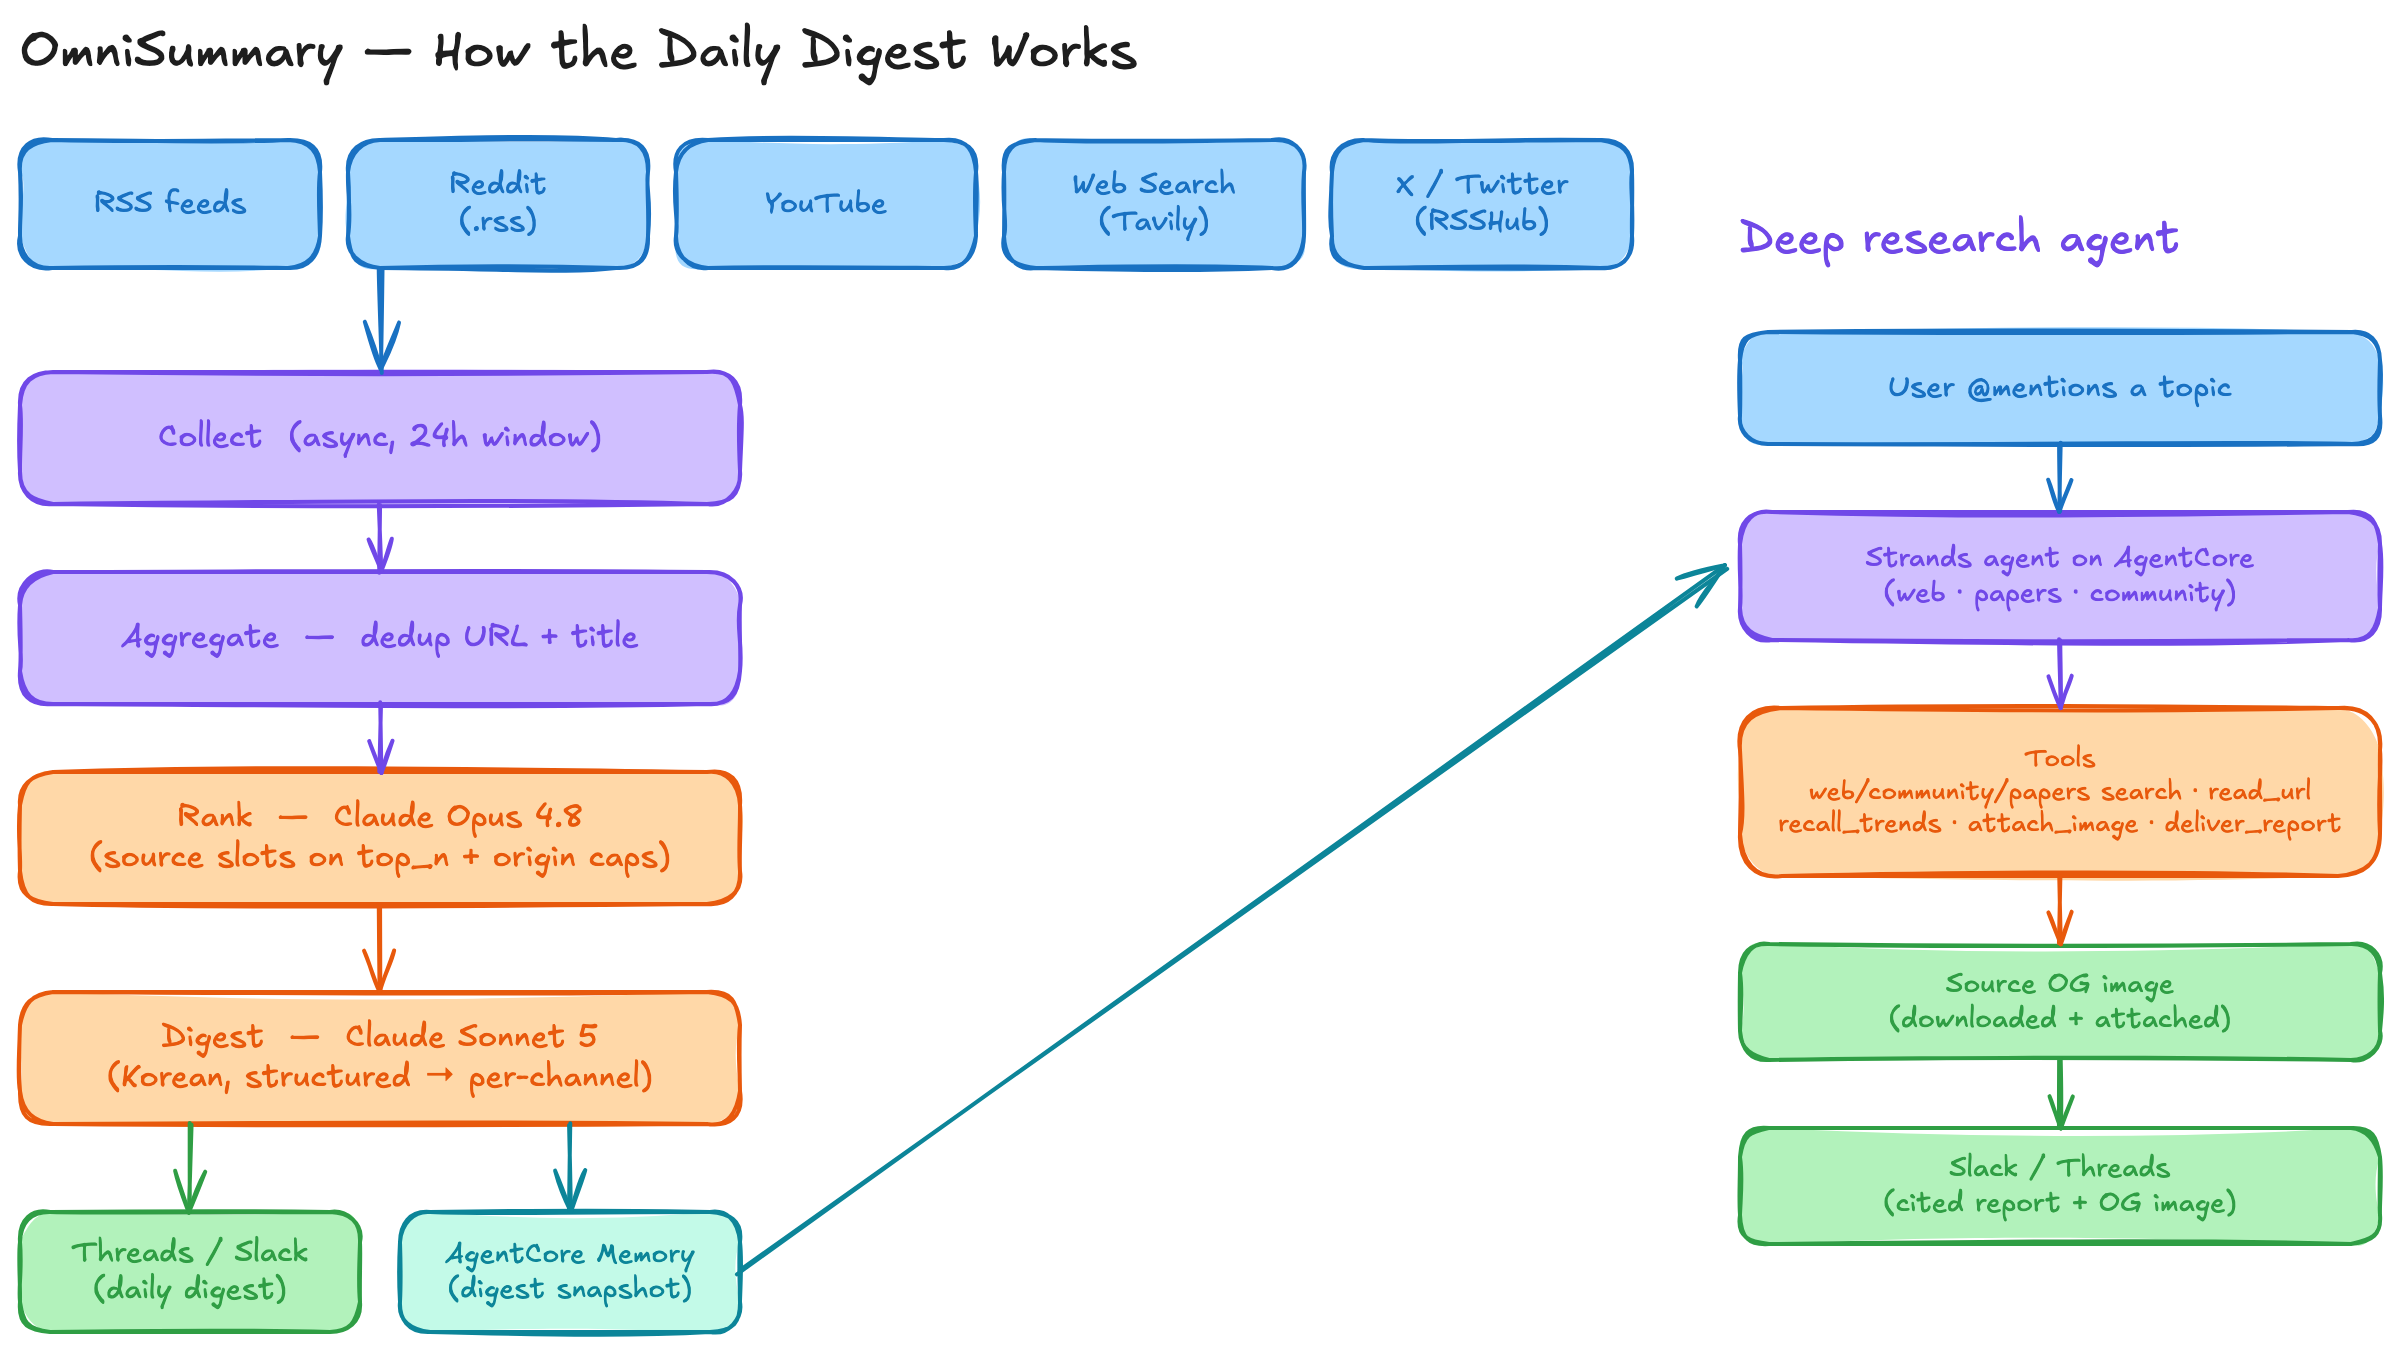
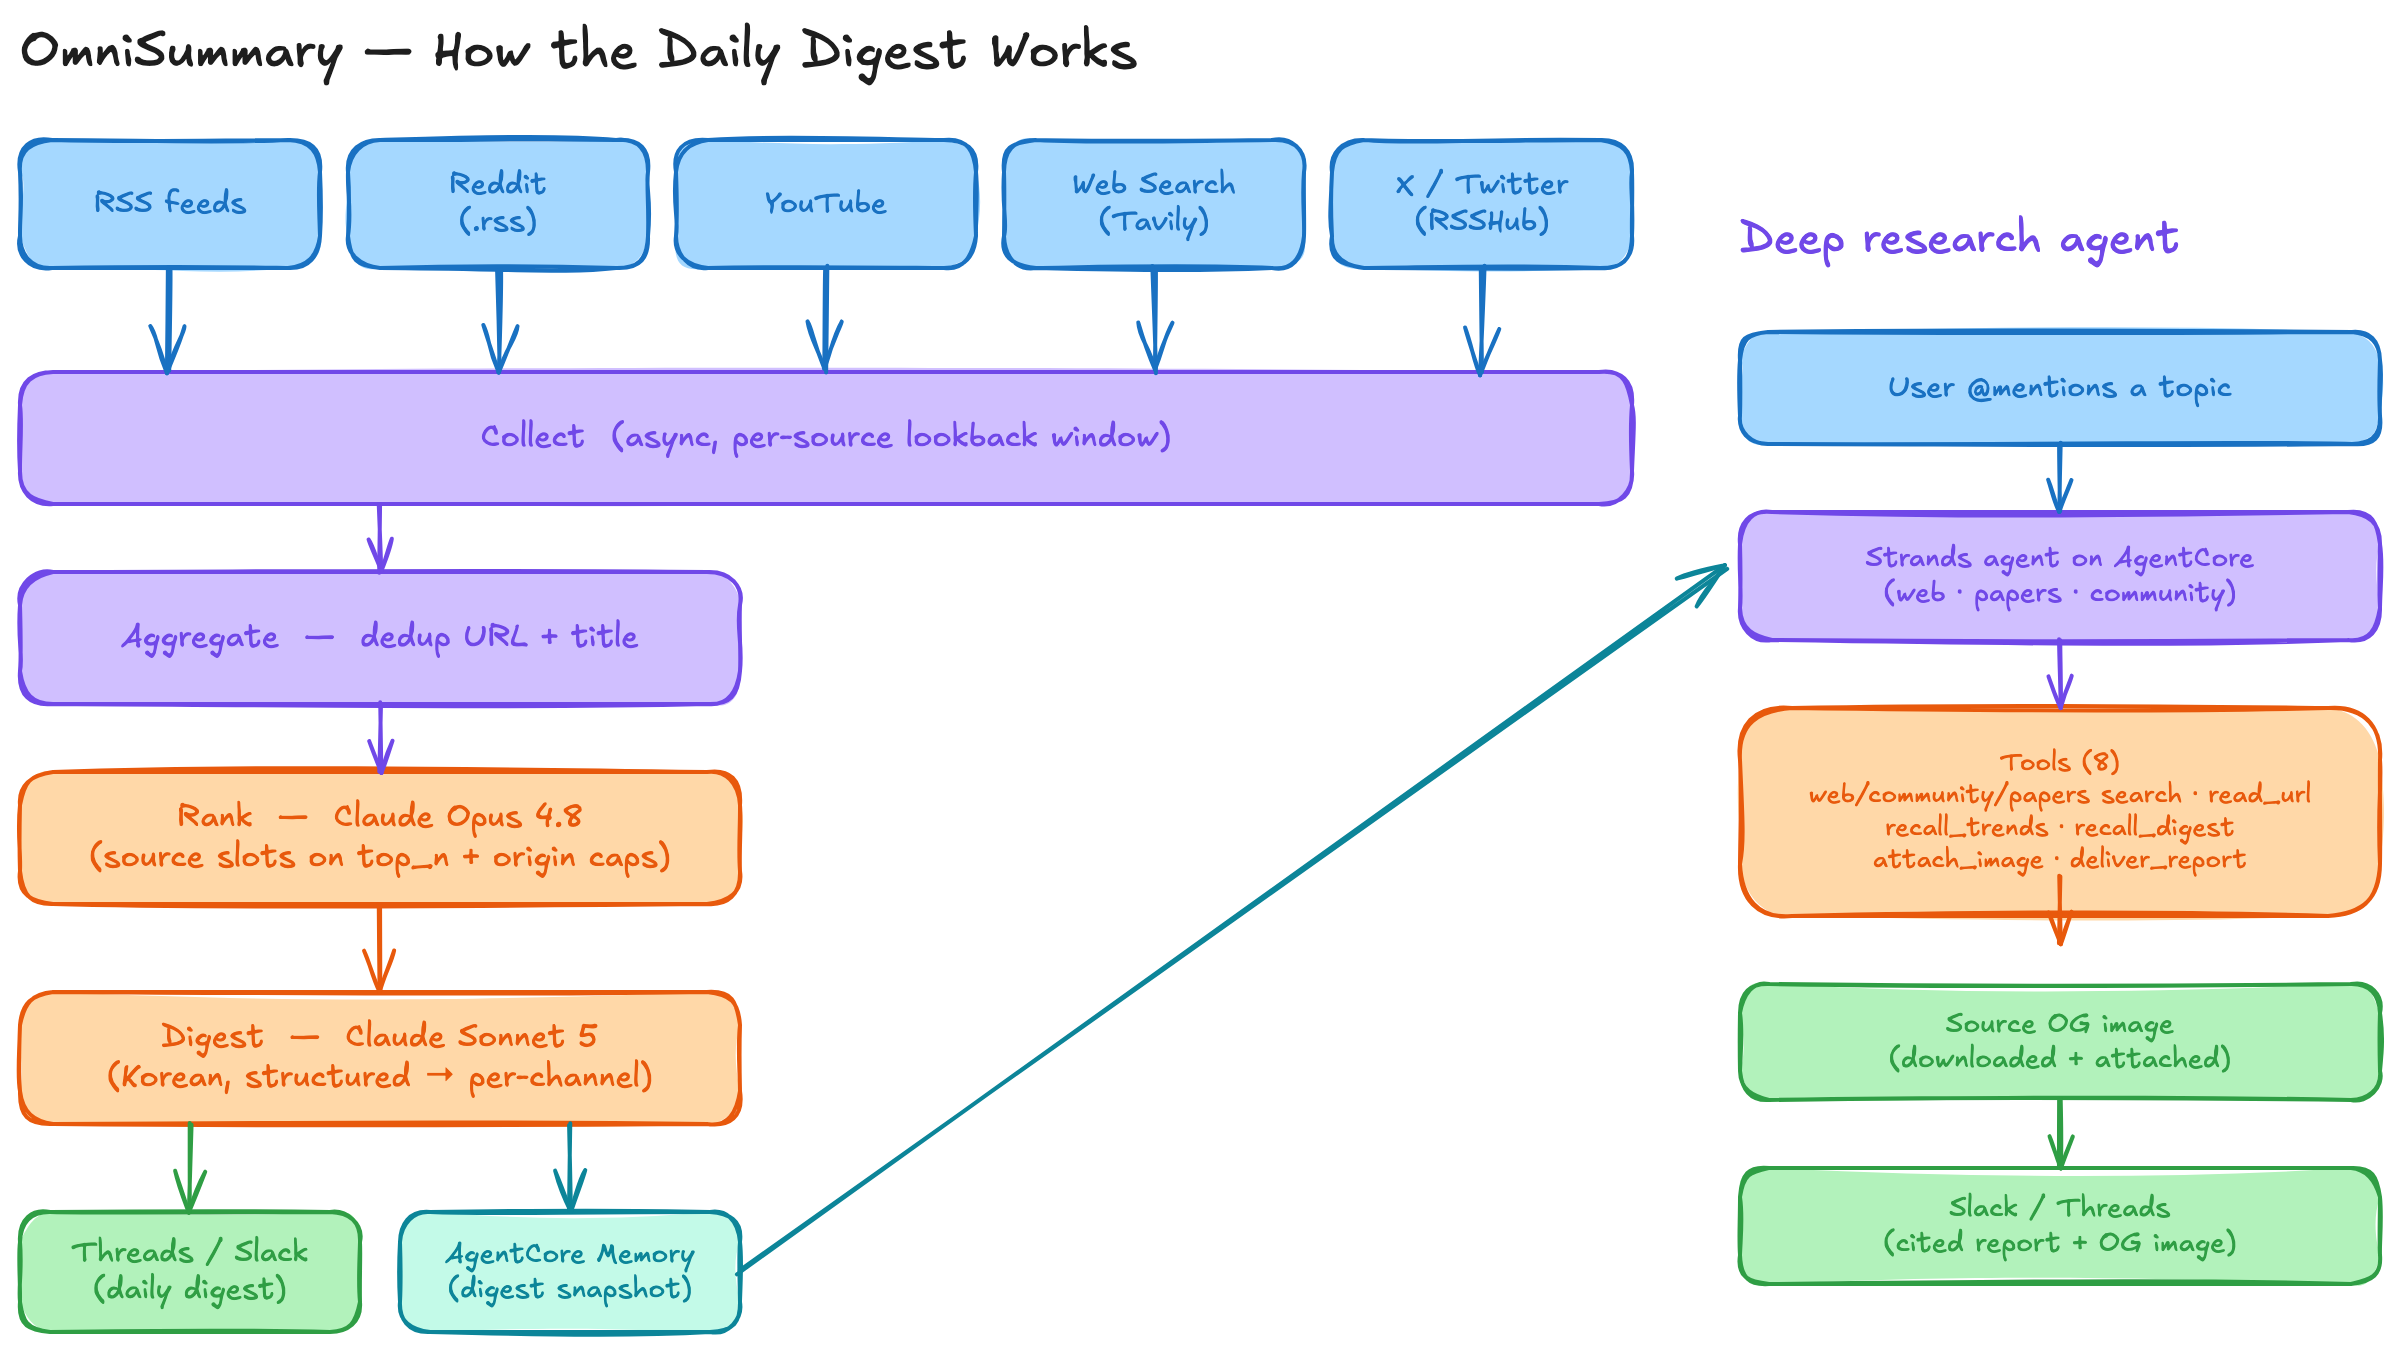
Fix the two diagrams the READMEs use to explain the product
- Both showed seven agent tools while the READMEs and design §9 say eight: recall_digest was
  missing from architecture.drawio and from the concept diagram's tools box.
- In the concept diagram only Reddit had an arrow into "Collect" — RSS, YouTube, Web Search and
  X/RSSHub dangled, reading as "only Reddit is collected". Collect now spans the source row and
  every source drops straight into it.
- "Collect (async, 24h window)" contradicted config-template's 72h lookback for web_search and
  rsshub; relabelled to "per-source lookback window" so no config value is baked into an image.
- Re-rendered both PNGs (drawio export / render_excalidraw.mjs). gen_diagrams.py's docstring now
  says which diagram is maintained how — it builds architecture.excalidraw, not the concept
  diagram — and its stale "Sonnet 4.6" pipeline label is corrected.

diff --git a/scripts/gen_diagrams.py b/scripts/gen_diagrams.py
@@ -1,12 +1,19 @@
 #!/usr/bin/env python3
-"""Generate the Excalidraw concept diagram (hand-drawn style).
+"""Build an Excalidraw (hand-drawn style) scene for the AWS architecture.
 
-Render with:
-  node scripts/render_excalidraw.mjs docs/diagrams/concept-pipeline.excalidraw docs/diagrams/concept-pipeline.png
+The two diagrams the READMEs actually embed are maintained differently, so keep them straight:
 
-(render_excalidraw.mjs screenshots the font-embedded SVG in a headless browser so the
-hand-drawn Virgil font is preserved; the plain `excalidraw-to-png` PNG path rasterizes
-via resvg, which drops the embedded font and falls back to sans-serif.)
+- `docs/diagrams/architecture.drawio` is hand-edited; export it with
+  `drawio -x -f png -s 2 -b 10 -o docs/diagrams/architecture.png docs/diagrams/architecture.drawio`
+  (never `-e`, which breaks image processing downstream).
+- `docs/diagrams/concept-pipeline.excalidraw` is edited in place and re-rendered with
+  `node scripts/render_excalidraw.mjs docs/diagrams/concept-pipeline.excalidraw docs/diagrams/concept-pipeline.png`.
+  That script screenshots the font-embedded SVG in a headless browser so the hand-drawn font
+  survives; the plain `excalidraw-to-png` PNG path rasterizes via resvg, which drops the embedded
+  font and falls back to sans-serif.
+
+This script writes `docs/diagrams/architecture.excalidraw` — the hand-drawn alternative to the
+drawio architecture diagram, kept for regenerating that layout from code.
 """
 
 import json
@@ -228,7 +235,7 @@ def build_architecture():
     c.node(LX, rows[0], "EventBridge\ndaily cron", PINK, PINK_S)
     c.node(LX, rows[1], "Digest Lambda\n(Docker, VPC)", ORANGE, ORANGE_S)
     c.node(LX, rows[2], "Collectors (async)\nRSS·Reddit·YouTube\nWeb·X (RSSHub)", GREY, GREY_S, 12)
-    c.node(LX, rows[3], "Pipeline\nRank (Opus 4.8) →\nDigest (Sonnet 4.6)", GREY, GREY_S, 12)
+    c.node(LX, rows[3], "Pipeline\nRank (Opus 4.8) →\nDigest (Sonnet 5)", GREY, GREY_S, 12)
     c.node(LX, rows[4], "Slack channel\n(daily digest)", GREEN, GREEN_S)
     for a, b in zip(rows, rows[1:], strict=False):
         c.arrow(lcol, a + NH, lcol, b, GREY_S)
